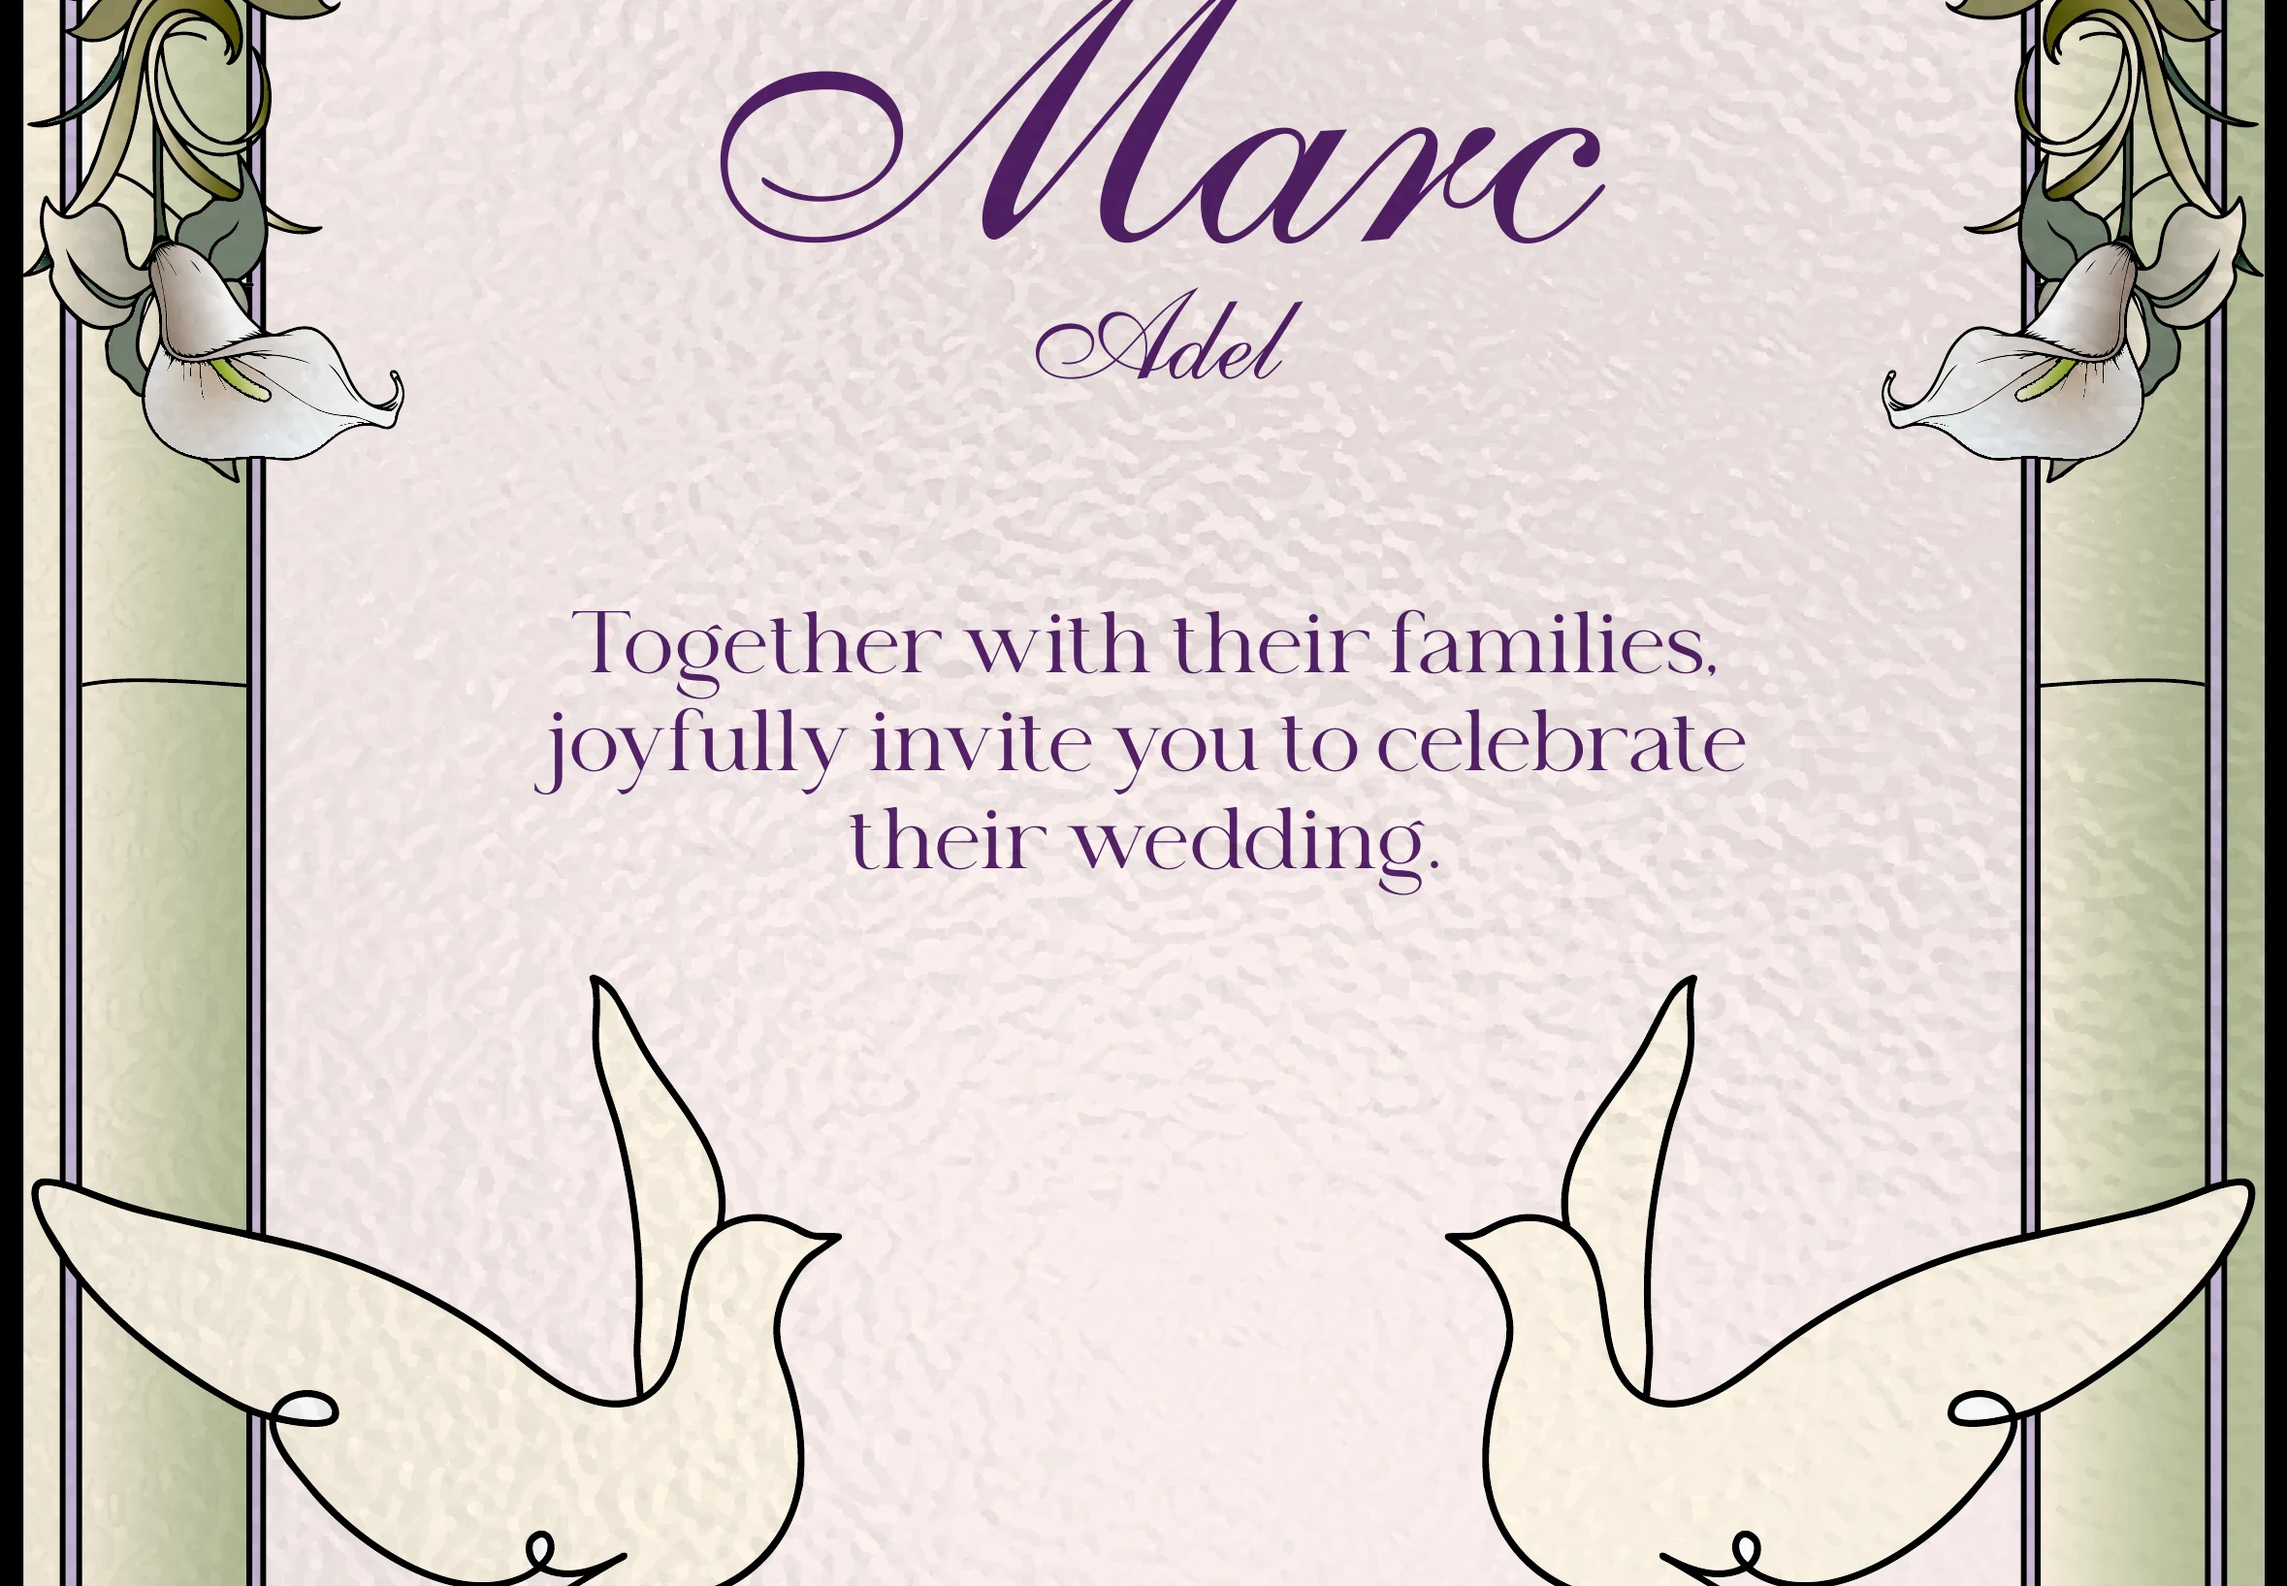
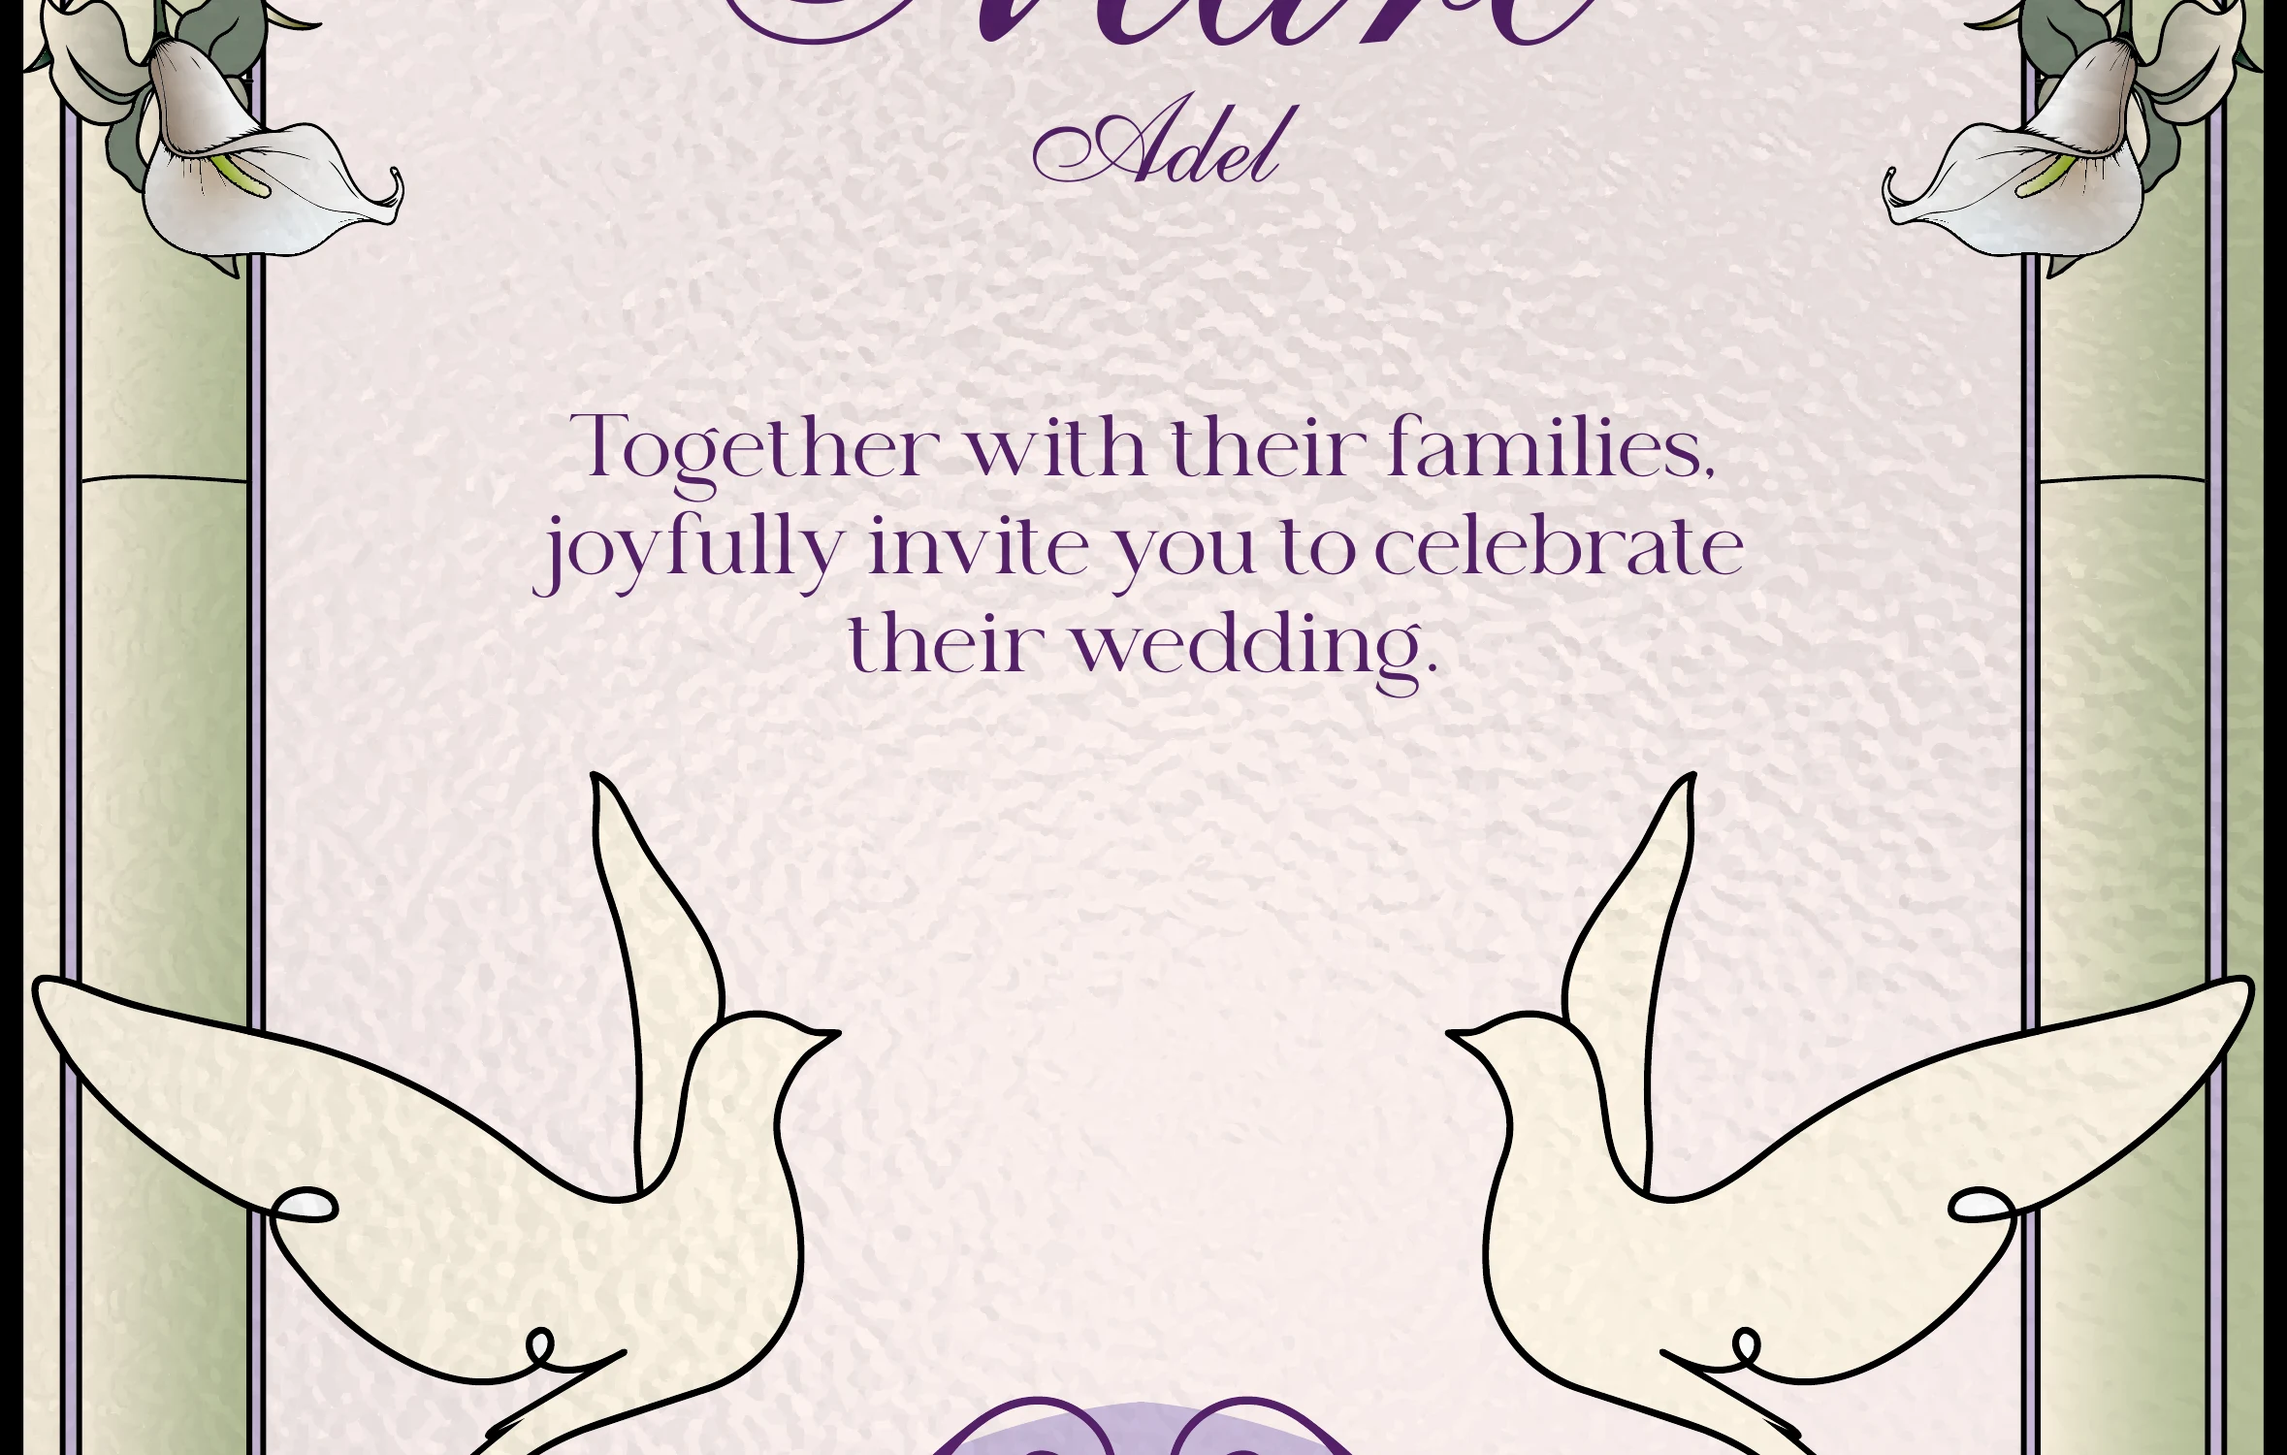
Rebuild invitation to match revised PDF; reposition countdown in the new gap

diff --git a/index.html b/index.html
@@ -514,41 +514,44 @@
 
 <div class="invite-page">
   <div class="invite-wrap" id="inviteWrap">
-    <img class="bg" src="images/section_00.webp" alt="Stained-glass arch with doves and lilies framing the initial M, for the wedding of Nancy and Marc" width="2358" height="2250">
-    <img class="bg" src="images/section_01.webp" alt="So they are no longer two, but one flesh. Therefore what God has joined together, let no one separate. (Matthew 19:6) — Nancy Nashaat and Marc Adel" width="2358" height="2640">
-    <img class="bg" src="images/section_02.webp" alt="Together with their families, joyfully invite you to celebrate their wedding" width="2358" height="1635">
-    <img class="bg" src="images/section_03.webp" alt="Saturday 24 October 2026 — a day we'd be honored to share with you" width="2358" height="3030">
-    <img class="bg" src="images/section_04.webp" alt="Countdown for the big day! Ceremony at St. Mark Coptic Orthodox Church, please arrive by 3:30 PM. Can't join us in person? Watch the ceremony live on Youtube." width="2358" height="3075">
-    <img class="bg" src="images/section_05.webp" alt="Reception following the ceremony at Hilton Cairo Heliopolis, Venue: The Garden, doors open at 5:30 PM" width="2358" height="1620">
-    <img class="bg" src="images/section_06.webp" alt="RSVP form — sweet dreams for your little ones while you celebrate with us" width="2358" height="2700">
-    <img class="bg" src="images/section_07.webp" alt="Song requests — help us keep the dance full by suggesting a song" width="2358" height="2175">
-    <img class="bg" src="images/section_08.webp" alt="We can't wait to celebrate with you — thank you for being part of one of the most meaningful days of our lives. With love, Nancy and Marc" width="2358" height="1965">
+    <img class="bg" src="images/section_00.webp" alt="Stained-glass arch with doves and lilies framing the initial M, for the wedding of Nancy and Marc" width="2358" height="2400">
+    <img class="bg" src="images/section_01.webp" alt="So they are no longer two, but one flesh. Therefore what God has joined together, let no one separate. (Matthew 19:6) — Nancy Nashaat and Marc Adel" width="2358" height="2700">
+    <img class="bg" src="images/section_02.webp" alt="Together with their families, joyfully invite you to celebrate their wedding" width="2358" height="1500">
+    <img class="bg" src="images/section_03.webp" alt="Saturday 24 October 2026 — a day we'd be honored to share with you" width="2358" height="2400">
+    <img class="bg" src="images/section_04.webp" alt="Countdown for the big day!" width="2358" height="2175">
+    <img class="bg" src="images/section_05.webp" alt="Ceremony at St. Mark Coptic Orthodox Church, please arrive by 3:30 PM. Can't join us in person? Watch the ceremony live on Youtube." width="2358" height="2010">
+    <img class="bg" src="images/section_06.webp" alt="Reception following the ceremony at Hilton Cairo Heliopolis, Venue: The Garden, doors open at 5:30 PM" width="2358" height="1740">
+    <img class="bg" src="images/section_07.webp" alt="RSVP form — sweet dreams for your little ones while you celebrate with us" width="2358" height="2250">
+    <img class="bg" src="images/section_08.webp" alt="Song requests — help us keep the dance full by suggesting a song" width="2358" height="1875">
+    <img class="bg" src="images/section_09.webp" alt="We can't wait to celebrate with you — thank you for being part of one of the most meaningful days of our lives. With love, Nancy and Marc" width="2358" height="2100">
 
     <!-- Ceremony: Get directions (real GPS pin, from the couple's data) -->
     <a class="hit" id="linkChurch" href="https://www.google.com/maps?q=30.092389,31.3296598" target="_blank" rel="noopener"
-       style="left:39.440cqw; top:502.884cqw; width:20.992cqw; height:4.750cqw;"
+       style="left:40.140cqw; top:526.590cqw; width:19.720cqw; height:2.545cqw;"
        aria-label="Get directions to St. Mark Coptic Orthodox Church"></a>
 
     <!-- Ceremony: Watch live -->
     <a class="hit" id="linkWatch" href="https://www.youtube.com/watch?v=KPPSCLWU6KE" target="_blank" rel="noopener"
-       style="left:41.942cqw; top:523.579cqw; width:15.988cqw; height:4.665cqw;"
+       style="left:42.621cqw; top:547.137cqw; width:14.758cqw; height:2.608cqw;"
        aria-label="Watch the ceremony live on YouTube"></a>
 
-    <!-- Ceremony: Add to Calendar (text is baked into the new artwork, so this is a transparent hit area only) -->
+    <!-- Ceremony: Add to Calendar (text is baked into the artwork, so this is a transparent hit area only) -->
     <button type="button" class="cal-link" id="calChurchLink"
-            style="left:37.489cqw; top:530.619cqw; width:24.894cqw; height:4.283cqw;" aria-label="Add ceremony to calendar"></button>
+            style="left:38.168cqw; top:554.008cqw; width:23.664cqw; height:2.608cqw;" aria-label="Add ceremony to calendar"></button>
 
     <!-- Reception: Get directions (real GPS pin) -->
     <a class="hit" id="linkVenue" href="https://www.google.com/maps?q=30.1067689,31.3645509" target="_blank" rel="noopener"
-       style="left:33.249cqw; top:577.608cqw; width:33.927cqw; height:4.453cqw;"
+       style="left:39.822cqw; top:607.634cqw; width:20.929cqw; height:2.672cqw;"
        aria-label="Get directions to Hilton Cairo Heliopolis"></a>
 
-    <!-- Reception: Add to Calendar (text is baked into the new artwork, so this is a transparent hit area only) -->
+    <!-- Reception: Add to Calendar (text is baked into the artwork, so this is a transparent hit area only) -->
     <button type="button" class="cal-link" id="calReceptionLink"
-            style="left:39.143cqw; top:583.927cqw; width:22.180cqw; height:4.877cqw;" aria-label="Add reception to calendar"></button>
+            style="left:37.786cqw; top:614.885cqw; width:25.000cqw; height:2.735cqw;" aria-label="Add reception to calendar"></button>
 
-    <!-- Live countdown, styled to match the flip-tile artwork it replaces -->
-    <div class="countdown" id="countdown" style="left:19.720cqw; top:419.847cqw; width:61.493cqw;" aria-live="off">
+    <!-- Live countdown, styled to match the flip-tile artwork it replaces. Positioned
+         in the blank gap the new artwork left between its baked "Countdown" heading
+         and "FOR THE BIG DAY!" subtitle. -->
+    <div class="countdown" id="countdown" style="left:19.720cqw; top:427.490cqw; width:61.493cqw;" aria-live="off">
       <div class="cd-group">
         <div class="cd-tiles"><div class="cd-tile" data-slot="d0"><span>0</span></div><div class="cd-tile" data-slot="d1"><span>0</span></div></div>
         <div class="cd-label">Days</div>
@@ -572,32 +575,32 @@
     <form id="rsvpForm" autocomplete="on">
       <input class="field" type="text" id="fullName" name="fullName" required
              aria-label="Full name" autocomplete="name"
-             style="left:27.396cqw; top:629.220cqw; width:45.674cqw; height:3.859cqw; font-size:2.4cqw;">
+             style="left:27.354cqw; top:646.501cqw; width:45.165cqw; height:3.880cqw; font-size:2.4cqw;">
 
-      <label class="radio-hit" style="left:27.057cqw; top:642.451cqw; width:14.080cqw; height:4.241cqw;">
+      <label class="radio-hit" style="left:26.654cqw; top:659.987cqw; width:13.995cqw; height:4.326cqw;">
         <input type="radio" name="attending" value="yes" required aria-label="Yes, I will attend">
-        <span class="radio-dot" style="left:0.848cqw; top:0.848cqw; width:2.545cqw; height:2.545cqw;"></span>
+        <span class="radio-dot" style="left:0.827cqw; top:0.827cqw; width:2.672cqw; height:2.672cqw;"></span>
       </label>
-      <label class="radio-hit" style="left:27.057cqw; top:648.304cqw; width:14.080cqw; height:4.241cqw;">
+      <label class="radio-hit" style="left:26.654cqw; top:665.712cqw; width:13.995cqw; height:4.326cqw;">
         <input type="radio" name="attending" value="no" aria-label="No, I can't attend">
-        <span class="radio-dot" style="left:0.848cqw; top:0.848cqw; width:2.545cqw; height:2.545cqw;"></span>
+        <span class="radio-dot" style="left:0.827cqw; top:0.827cqw; width:2.672cqw; height:2.672cqw;"></span>
       </label>
 
-      <label class="radio-hit" style="left:27.057cqw; top:662.680cqw; width:14.080cqw; height:4.241cqw;">
+      <label class="radio-hit" style="left:26.654cqw; top:680.089cqw; width:13.995cqw; height:4.326cqw;">
         <input type="radio" name="plusOne" value="yes" aria-label="Yes, with a guest">
-        <span class="radio-dot" style="left:0.848cqw; top:0.848cqw; width:2.545cqw; height:2.545cqw;"></span>
+        <span class="radio-dot" style="left:0.827cqw; top:0.827cqw; width:2.672cqw; height:2.672cqw;"></span>
       </label>
-      <label class="radio-hit" style="left:27.057cqw; top:668.533cqw; width:14.080cqw; height:4.241cqw;">
+      <label class="radio-hit" style="left:26.654cqw; top:685.814cqw; width:13.995cqw; height:4.326cqw;">
         <input type="radio" name="plusOne" value="no" aria-label="No, attending alone">
-        <span class="radio-dot" style="left:0.848cqw; top:0.848cqw; width:2.545cqw; height:2.545cqw;"></span>
+        <span class="radio-dot" style="left:0.827cqw; top:0.827cqw; width:2.672cqw; height:2.672cqw;"></span>
       </label>
 
       <input class="field" type="text" id="guestName" name="guestName" hidden
              placeholder="Guest's name" aria-label="Guest name" autocomplete="off"
-             style="left:27.396cqw; top:681.128cqw; width:45.674cqw; height:4.495cqw; font-size:2.4cqw;">
+             style="left:27.354cqw; top:699.046cqw; width:45.165cqw; height:3.880cqw; font-size:2.4cqw;">
 
       <button class="submit-hit" type="submit" id="submitBtn" aria-label="Submit RSVP"
-              style="left:27.566cqw; top:697.837cqw; width:45.377cqw; height:6.149cqw;"></button>
+              style="left:36.323cqw; top:710.369cqw; width:26.781cqw; height:4.835cqw;"></button>
     </form>
 
     <!-- Song requests: guests must RSVP first (checked against the Full Name
@@ -605,14 +608,14 @@
     <form id="songForm" autocomplete="off">
       <input class="field" type="text" id="songName" name="songName" required
              aria-label="Song name"
-             style="left:27.735cqw; top:757.252cqw; width:45.335cqw; height:4.665cqw; font-size:2.4cqw;">
+             style="left:27.354cqw; top:764.695cqw; width:45.165cqw; height:3.880cqw; font-size:2.4cqw;">
 
       <input class="field" type="text" id="songArtist" name="songArtist"
              aria-label="Artist"
-             style="left:27.947cqw; top:776.760cqw; width:44.826cqw; height:4.623cqw; font-size:2.4cqw;">
+             style="left:27.354cqw; top:776.272cqw; width:45.165cqw; height:3.880cqw; font-size:2.4cqw;">
 
       <button class="submit-hit" type="submit" id="songSubmitBtn" aria-label="Send song request"
-              style="left:34.139cqw; top:789.398cqw; width:29.347cqw; height:5.047cqw;"></button>
+              style="left:41.349cqw; top:788.931cqw; width:17.112cqw; height:4.898cqw;"></button>
     </form>
 
     <div class="toast" id="toast" role="status"></div>
